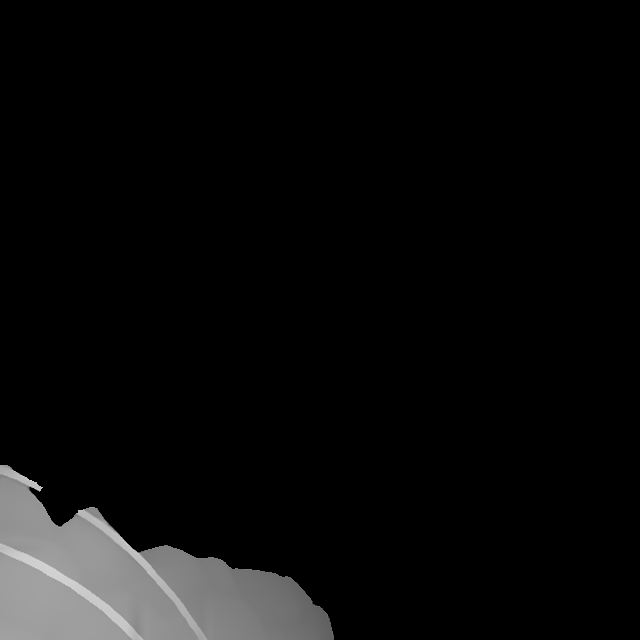
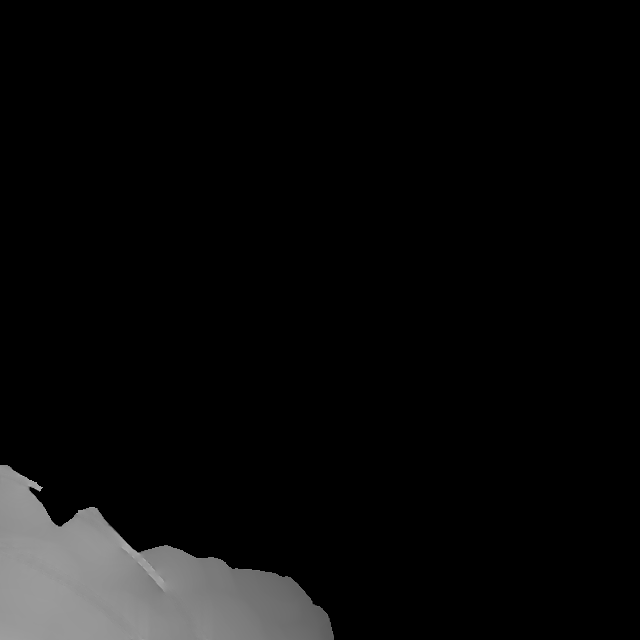
ENSI 16: depth steps kept only where the model bears them out
The same agreement as MASS 84, on the model of Voltaic's rooms 1-27: 30.50
against 30.92 for the depth before over 36 views, and holes 9.7% of the
layered atlas against 11.1%. agree_depth.py, mesh_depth.py and view_check.py
take --prefix for other Ages' picture names. J'nanin's LEIS 77 is not
changed: its 13-node mesh spans the water under the bridge, which raised the
water to the bridge on the bottom face though the score improved.

Claude-Session: https://claude.ai/code/session_01PGTZsQJKeQ77ippduWGzGV

diff --git a/cube/myst3/colmap/mesh_depth.py b/cube/myst3/colmap/mesh_depth.py
@@ -47,6 +47,7 @@ def main():
     ap = argparse.ArgumentParser(description=__doc__, formatter_class=argparse.RawDescriptionHelpFormatter)
     ap.add_argument('mesh'); ap.add_argument('sparse'); ap.add_argument('out')
     ap.add_argument('--node', required=True); ap.add_argument('--names', nargs=6, required=True)
+    ap.add_argument('--prefix', default='MA-', help="the node's pictures in the model are f<k>/<prefix><node>.jpg (ENSI-, LEIS-)")
     ap.add_argument('--node-depth', required=True)
     ap.add_argument('--size', type=int, default=640); ap.add_argument('--scale', type=float, default=1.0)
     ap.add_argument('--dense'); ap.add_argument('--max-dist', type=float, default=0.0)
@@ -59,7 +60,7 @@ def main():
     V = np.asarray(mesh.vertices); tri_np = np.asarray(mesh.triangles)
     scene = o3d.t.geometry.RaycastingScene()
     scene.add_triangles(o3d.t.geometry.TriangleMesh.from_legacy(mesh))
-    want = {f'f{k}/MA-{a.node}.jpg': k for k in range(1, 7)}
+    want = {f'f{k}/{a.prefix}{a.node}.jpg': k for k in range(1, 7)}
     poses = {}
     with open(os.path.join(a.sparse, 'images.txt')) as fh:
         for line in fh:
@@ -99,7 +100,7 @@ def main():
         Image.fromarray(d8).save(os.path.join(a.out, f'{name}_mesh-depth.png'))
         rec = {'hit': float(np.mean(z > 0))}
         if a.dense:
-            dm = os.path.join(a.dense, 'stereo', 'depth_maps', f'f{k}', f'MA-{a.node}.jpg.geometric.bin')
+            dm = os.path.join(a.dense, 'stereo', 'depth_maps', f'f{k}', f'{a.prefix}{a.node}.jpg.geometric.bin')
             if os.path.exists(dm):
                 zs = read_colmap_array(dm).astype(float) / a.scale
                 if zs.shape != z.shape:

diff --git a/cube/myst3/colmap/agree_depth.py b/cube/myst3/colmap/agree_depth.py
@@ -122,6 +122,7 @@ def main():
     ap.add_argument('--sparse', help="with --cloud: the cloud's text model, with the node's faces (f<k>/MA-<node>.jpg)")
     ap.add_argument('--scale', type=float, default=1.0, help="with --cloud: the model's units in the site depth's")
     ap.add_argument('--masks'); ap.add_argument('--node')
+    ap.add_argument('--prefix', default='MA-', help="the node's pictures in the model are f<k>/<prefix><node>.jpg (ENSI-, LEIS-)")
     ap.add_argument('--band', type=int, default=48)
     ap.add_argument('--depth-suffix', default='_measured-depth.png')
     a = ap.parse_args()
@@ -131,7 +132,7 @@ def main():
     poses, xyz = {}, None
     if a.cloud:
         from node_depth import qvec2rot, read_ply_xyz
-        want = {f'f{k}/MA-{a.node}.jpg': k for k in range(1, 7)}
+        want = {f'f{k}/{a.prefix}{a.node}.jpg': k for k in range(1, 7)}
         with open(os.path.join(a.sparse, 'images.txt')) as fh:
             for line in fh:
                 p = line.split()
@@ -153,7 +154,7 @@ def main():
         good = (zm > 0) & (span < a.max_span) & ~sky
         mmask = np.ones((N, N), bool)
         if a.masks and a.node:
-            mp = os.path.join(a.masks, f'f{k}', f'MA-{a.node}.jpg.png')
+            mp = os.path.join(a.masks, f'f{k}', f'{a.prefix}{a.node}.jpg.png')
             if os.path.exists(mp):
                 mmask = np.asarray(Image.open(mp).convert('L').resize((N, N), Image.NEAREST)) > 127
                 good &= mmask

diff --git a/cube/myst3/colmap/view_check.py b/cube/myst3/colmap/view_check.py
@@ -147,6 +147,7 @@ def main():
     ap = argparse.ArgumentParser(description=__doc__, formatter_class=argparse.RawDescriptionHelpFormatter)
     ap.add_argument('dense'); ap.add_argument('sparse')
     ap.add_argument('--node', required=True); ap.add_argument('--names', nargs=6, required=True)
+    ap.add_argument('--prefix', default='MA-', help="the node's pictures in the model are f<k>/<prefix><node>.jpg (ENSI-, LEIS-)")
     ap.add_argument('--variant', nargs=4, action='append', required=True, metavar=('NAME', 'DIR', 'SUFFIX', 'R_FAR_JSON'))
     ap.add_argument('--scale', type=float, default=1.0)
     ap.add_argument('--radius', type=float, default=3.0); ap.add_argument('--frames', type=int, default=40)
@@ -156,7 +157,7 @@ def main():
                          "steps), the sky at r_far as the viewer puts it, not as separate points: a false step then smears")
     a = ap.parse_args()
     cams, imgs = read_model(a.sparse)
-    own = {k: f'f{k}/MA-{a.node}.jpg' for k in range(1, 7)}
+    own = {k: f'f{k}/{a.prefix}{a.node}.jpg' for k in range(1, 7)}
     C = -imgs[own[1]][0].T @ imgs[own[1]][1]
     centre = lambda n: -imgs[n][0].T @ imgs[n][1]
     nodes, frames = [], []

diff --git a/cube/myst3/README.md b/cube/myst3/README.md
@@ -1281,6 +1281,21 @@ now to cut a hole round. MASS 84 is shipped with it (Original, Layered and the
 walk, MASS 89 made the same way); the depth before is `site_live_backup/` on
 the PC.
 
+**The agreement on other Ages** (`--prefix ENSI-`/`LEIS-` for their picture
+names). Voltaic's ENSI 16, on the model of rooms 1–27 (its own mesh and fused
+cloud): 30.50 against 30.92 for the depth before over 36 views, the faces
+much as before (walkway, rails and the mast kept, the bottom face smoother
+round the hub), holes 9.7% of the atlas against 11.1%: shipped. J'nanin's
+LEIS 77, on its 13-node model (`stereo_fusion` and `delaunay_mesher` run on
+it for this, 104,934 points): 32.06 against 33.57 over 27 views, but the mesh
+spans the water under the bridge, and on the bottom face the water rose to
+the bridge and the gaps between its slats blurred away (their holes in the
+layered build went with them). The score did not catch it, as the views
+round LEIS 77 see little of that water. Not shipped. The mesh put J'nanin's
+surfaces at 0.25–0.9 of the live depth's distance, and the live depth scored
+better at 0.7 times its distance than at 1, so the live depth may be too far;
+a denser J'nanin model would settle it.
+
 **The walk between two nodes** (the viewer's Walk button at MASS 84;
 `colmap/walk_scene.py` writes its folder, `colmap/walk_render.py` renders one
 offline). Each node is a mesh pushed out by its depth, drawn from the moving
